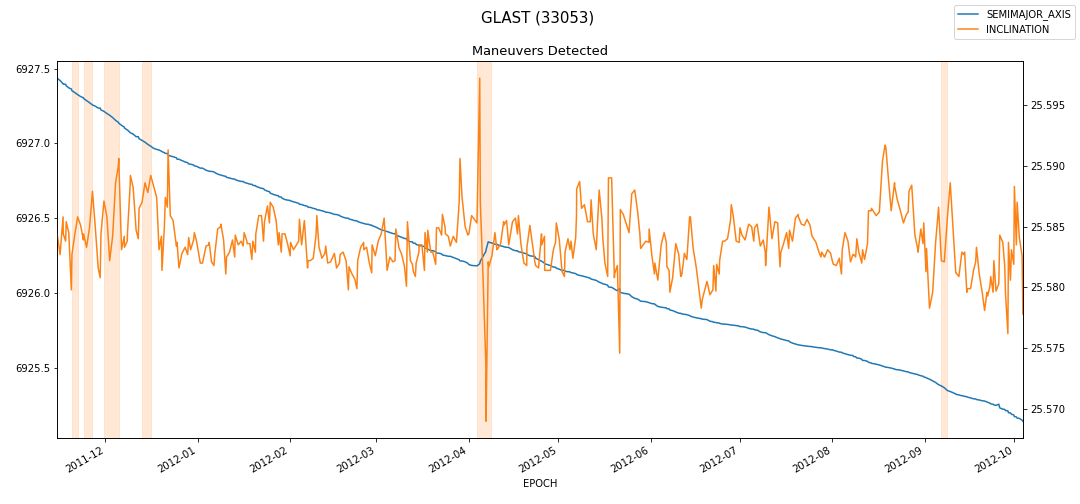
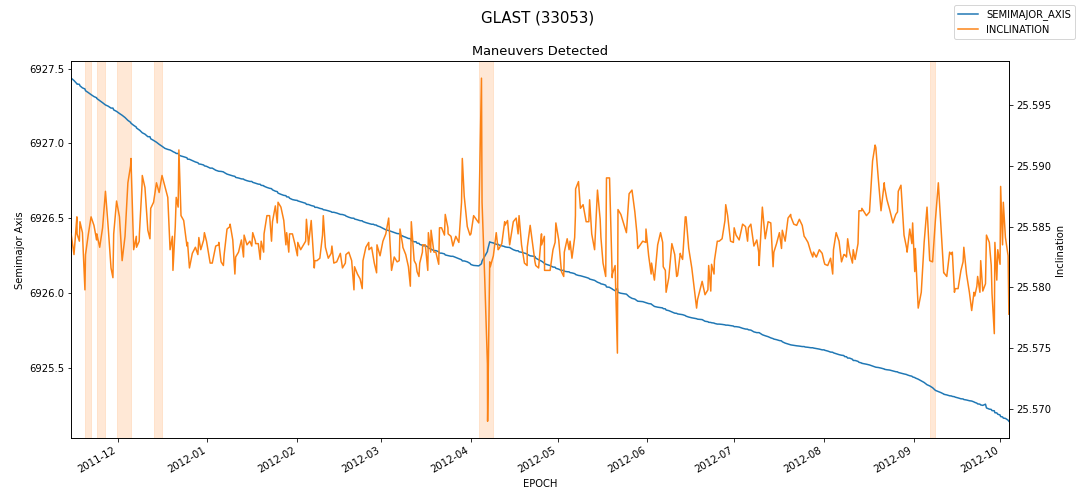
Maneuver image updates

diff --git a/playground/tim_detect_maneuver/detect_maneuver.py b/playground/tim_detect_maneuver/detect_maneuver.py
@@ -82,18 +82,18 @@ def plot_maneuvers(df, maneuver_results, sat_name):
                     ax[j+1,i].axvspan(er.start, er.end, alpha=0.5, color=cmap((k+1)/(len(thresholds)+2)), label="_")
     return fig
 
-def plot_combined_maneuvers(df, event_range, sat_name):
-    fig, ax = plt.subplots(squeeze=True, figsize=(15,7))
+def plot_combined_maneuvers(fig, ax, df, event_range, sat_name):
     fig.suptitle(sat_name, fontsize=15)
     ax.set_title("Maneuvers Detected", fontsize=13)
     ax.set_xlim(df.index[0], df.index[-1])
     df['SEMIMAJOR_AXIS'].plot(ax=ax, label="SEMIMAJOR_AXIS")
-    a2 = ax.twinx()
-    df['INCLINATION'].plot(ax=a2, color="#fc8215", label="INCLINATION")
+    ax2 = ax.twinx()
+    ax.set_ylabel("Semimajor Axis")
+    ax2.set_ylabel("Inclination")
+    df['INCLINATION'].plot(ax=ax2, color="#fc8215", label="INCLINATION")
     for _,er in event_range.iterrows():
         ax.axvspan(er.start, er.end, alpha=0.5, color="#ffd2ae", label="_")
-    return fig
-
+    
                     
 def explore_maneuvers_thresholds(norad_id, df_slice, maneuver_functions):
     raw = df[df.NORAD_CAT_ID == norad_id][df_slice].copy()
@@ -129,7 +129,8 @@ def plot_maneuver_results(df, satcat, norad_id, df_slice, maneuver_functions, co
 
     if combined:
         stuff = (fixed, combined_results, f'{satcat.loc[(satcat.NORAD_CAT_ID == norad_id),"SATNAME"].values[0]} ({norad_id}) ')
-        fig = plot_combined_maneuvers(*stuff)
+        fig, ax = plt.subplots(squeeze=True, figsize=(15,7))
+        plot_combined_maneuvers(fig, ax, *stuff)
         fig.tight_layout(pad=1.5)
         fig.set_facecolor("white")
         fig.legend()
